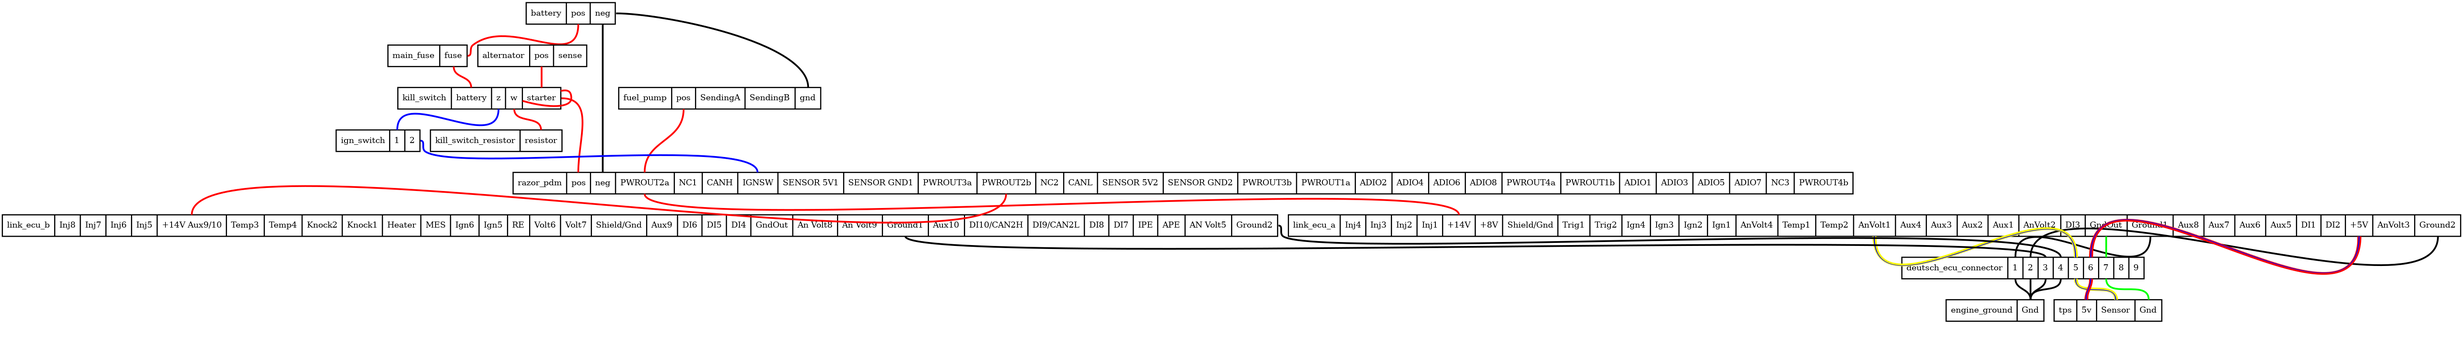
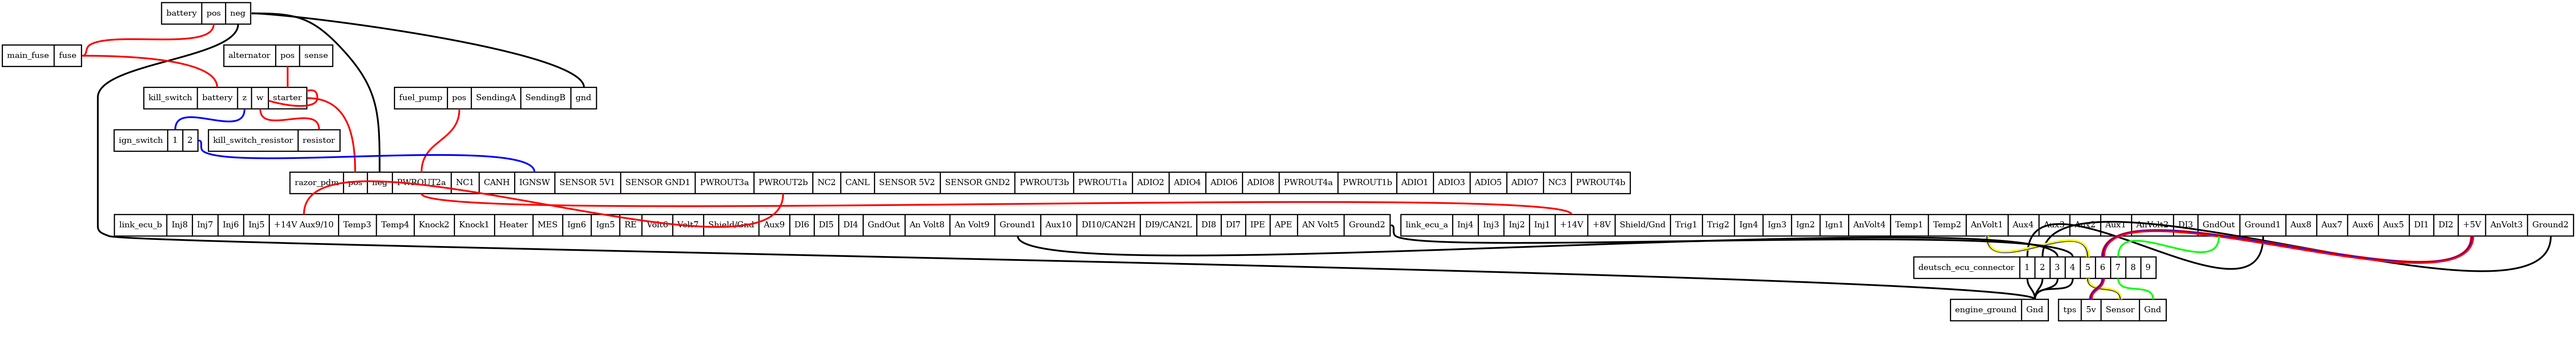
Add battery ground

diff --git a/corrado_wiring.py b/corrado_wiring.py
@@ -140,6 +140,10 @@ AddPath((
   ('kill_switch', 'battery'),
 ), 'red')
 AddPath((
+  ('battery', 'neg'),
+  ('engine_ground', 'Gnd'),
+), 'black')
+AddPath((
   ('alternator', 'pos'),
   ('kill_switch', 'starter'),
 ), 'red')
